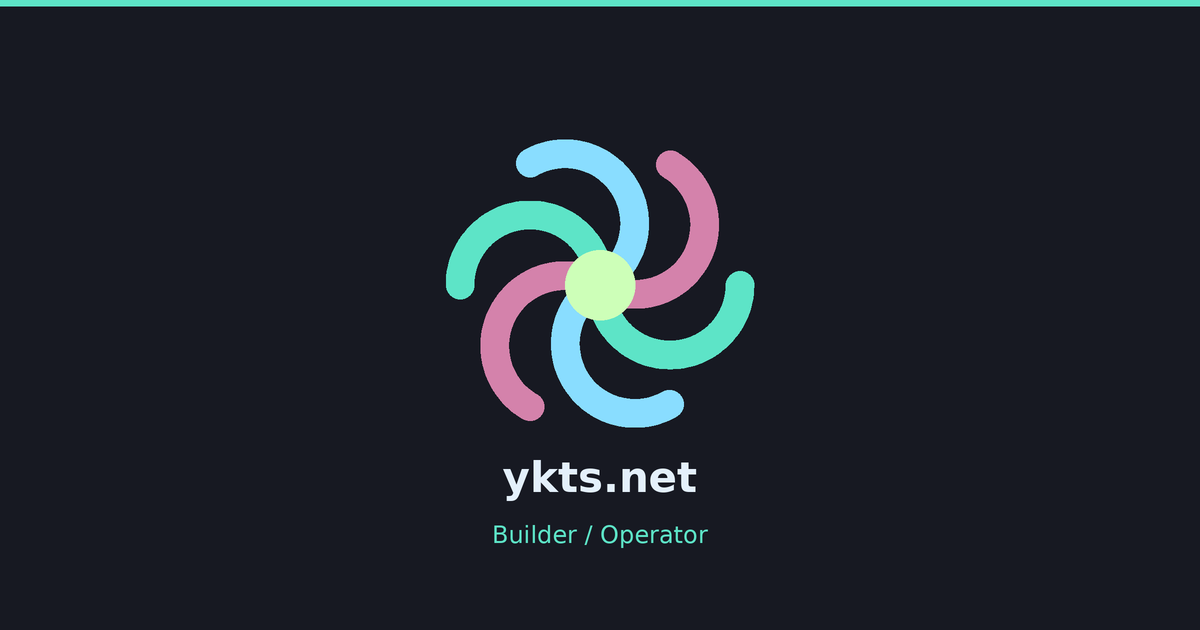
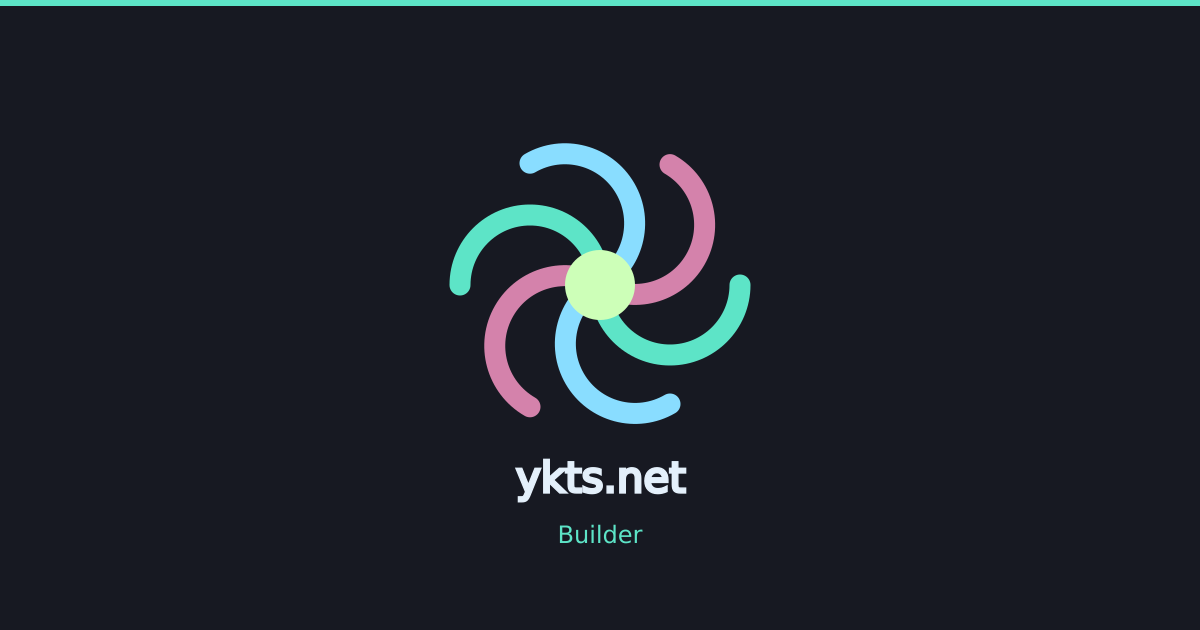
fix: シェア時のカードを現行のサイトに合わせる (#155)
- OG 画像の副題「Builder / Operator」を Hero と同じ「Builder」に差し替える
- トップのタイトルを「Works」から氏名に変え、カードの見出しを「Katsuhiro Yamakawa • ykts.net」にする
- og:image:alt の既定をページ名からサイト名に変える
- About / Impact / Principles / Photos に各ページの見出しから取った説明文を付ける
- Contact の説明文から実在しない「各種リンク」を外し、英語に揃える
- README のブログの記述と ProfileLayout の未使用の 'blog' を削除する

Changed region(s): [[0.37, 0.2111, 0.6475, 0.6937], [0.4008, 0.7238, 0.5858, 0.8746]]

diff --git a/README.md b/README.md
@@ -6,7 +6,7 @@
 
 > Find what's worth fixing in the numbers, build it without changing how people already work, and hand it over so the team can keep it running on their own.
 
-個人ポートフォリオ・技術ブログ。  
+個人ポートフォリオ。  
 https://ykts.net
 
 ## Tech Stack

diff --git a/README.en.md b/README.en.md
@@ -6,7 +6,7 @@
 
 > Find what's worth fixing in the numbers, build it without changing how people already work, and hand it over so the team can keep it running on their own.
 
-Personal portfolio and tech blog.  
+Personal portfolio.  
 https://ykts.net
 
 ## Tech Stack
